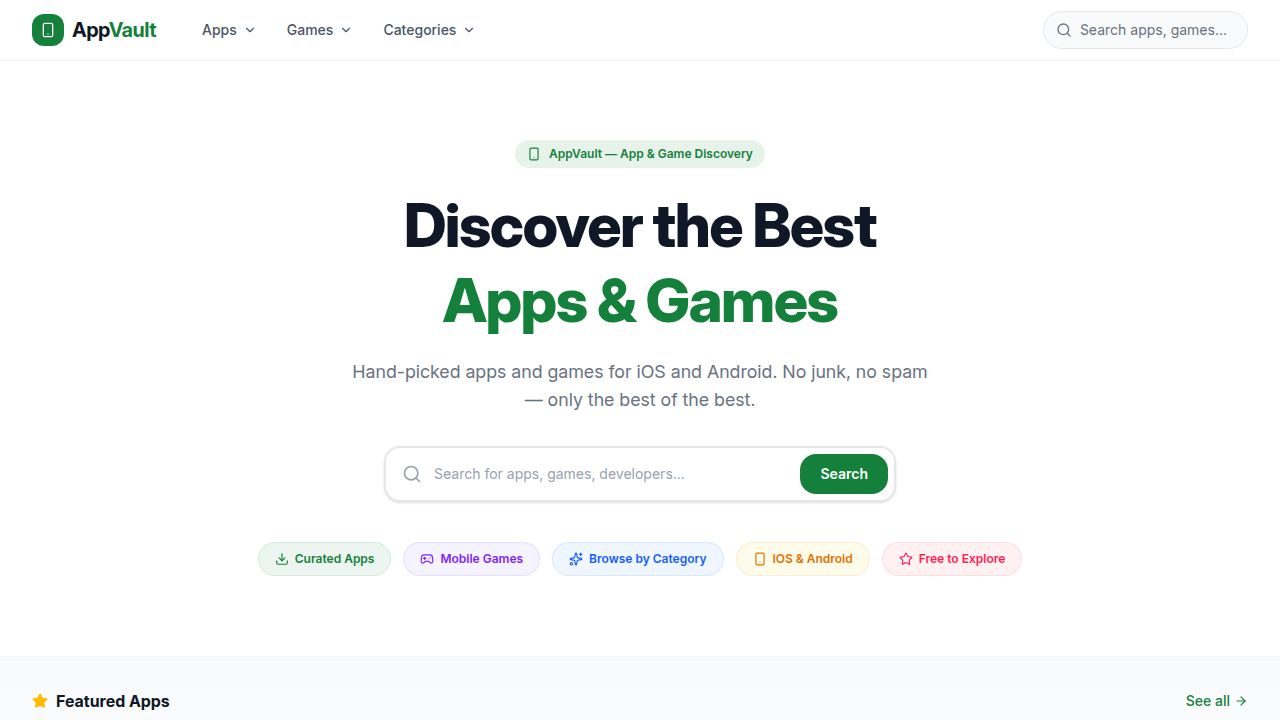
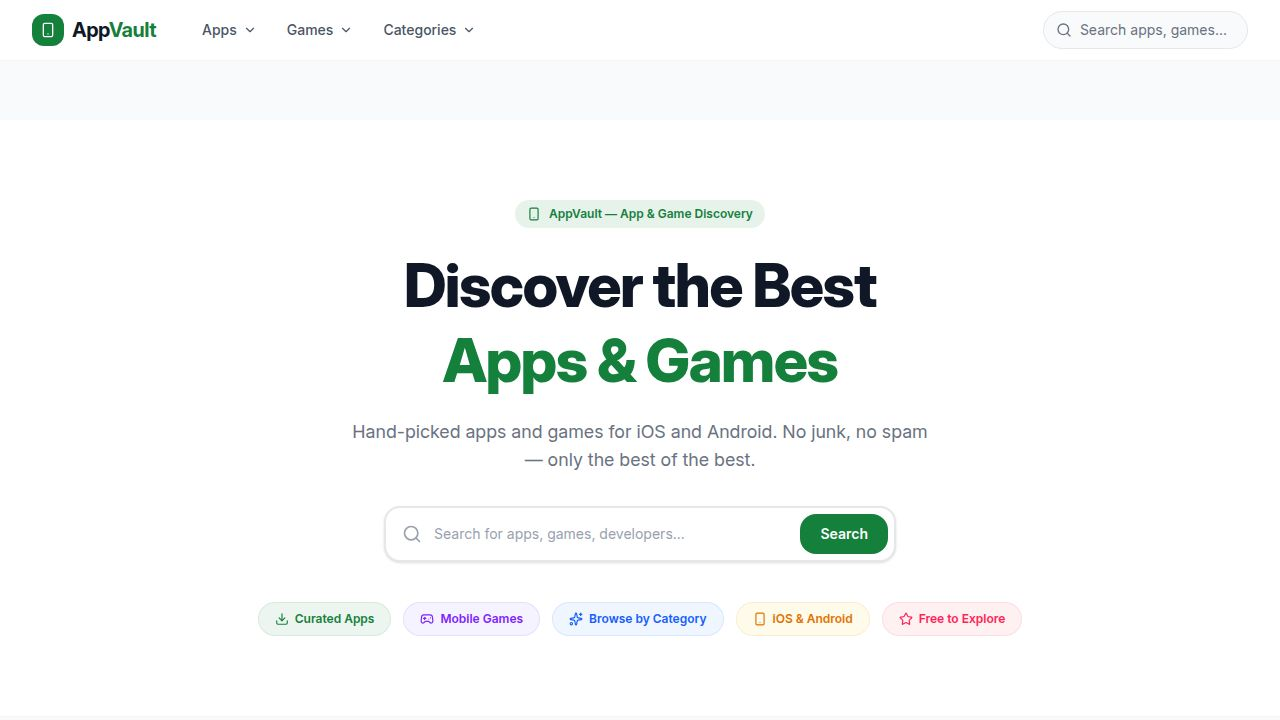
Add a universal back button and ensure all apps have store links
Create a reusable BackButton component, integrate it into the main layout for global use, and update all apps and games with valid store URLs.

Replit-Commit-Author: Agent
Replit-Commit-Session-Id: 5d847fb3-4399-40eb-8fd0-f5177b83f4bb
Replit-Commit-Checkpoint-Type: full_checkpoint
Replit-Commit-Event-Id: aa66eb4b-c818-4401-868c-f87e376d874f
Replit-Commit-Screenshot-Url: https://storage.googleapis.com/screenshot-production-us-central1/a645a3cc-1325-4004-b24e-4fd7294a2426/5d847fb3-4399-40eb-8fd0-f5177b83f4bb/j2EM5Wn
Replit-Helium-Checkpoint-Created: true

diff --git a/artifacts/appstore/src/pages/category-detail.tsx b/artifacts/appstore/src/pages/category-detail.tsx
@@ -1,8 +1,8 @@
-import { useParams, Link } from "wouter";
+import { useParams } from "wouter";
 import { useGetAppsByCategory, useListCategories, getGetAppsByCategoryQueryKey } from "@workspace/api-client-react";
 import { AppCard } from "@/components/app-card";
 import { Skeleton } from "@/components/ui/skeleton";
-import { ChevronLeft, Layers } from "lucide-react";
+import { Layers } from "lucide-react";
 import {
   Gamepad2, Music, Camera, Briefcase, GraduationCap, HeartPulse,
   ShoppingBag, Compass, MessageCircle, Map, Zap, DollarSign, Utensils,
@@ -25,8 +25,6 @@ export function CategoryDetail() {
   const category = categories?.find(c => c.slug === categorySlug);
   const Icon = category ? (iconMap[category.iconName] || Layers) : Layers;
   const isGameGenre = categorySlug.endsWith("-games");
-  const backHref = isGameGenre ? "/games" : "/categories";
-  const backLabel = isGameGenre ? "Mobile Gaming Hub" : "All Categories";
 
   const { data: apps, isLoading } = useGetAppsByCategory(categorySlug, undefined, {
     query: {
@@ -40,9 +38,6 @@ export function CategoryDetail() {
       {/* Category Header */}
       <div className="bg-white border-b border-gray-100">
         <div className="max-w-7xl mx-auto px-4 sm:px-6 lg:px-8 py-10">
-          <Link href={backHref} className="inline-flex items-center gap-1 text-sm text-gray-500 hover:text-gray-900 mb-6 transition-colors">
-            <ChevronLeft className="h-4 w-4" /> {backLabel}
-          </Link>
           <div className="flex items-start gap-5">
             {category ? (
               <div

diff --git a/artifacts/appstore/src/components/ui/back-button.tsx b/artifacts/appstore/src/components/ui/back-button.tsx
@@ -1,0 +1,47 @@
+import { ArrowLeft } from "lucide-react";
+import { useLocation } from "wouter";
+
+interface BackButtonProps {
+  fallback?: string;
+  label?: string;
+}
+
+export function BackButton({ fallback = "/", label = "Back" }: BackButtonProps) {
+  const [, navigate] = useLocation();
+
+  function handleBack() {
+    if (window.history.length > 1) {
+      window.history.back();
+    } else {
+      navigate(fallback);
+    }
+  }
+
+  return (
+    <button
+      type="button"
+      onClick={handleBack}
+      className="
+        group
+        inline-flex items-center gap-1.5
+        px-3.5 py-2
+        bg-white
+        text-gray-600
+        text-sm font-semibold
+        rounded-xl
+        border border-gray-200
+        shadow-sm
+        hover:bg-gray-50
+        hover:text-gray-900
+        hover:shadow-md
+        hover:border-gray-300
+        active:scale-[0.97]
+        transition-all duration-150
+        select-none
+      "
+    >
+      <ArrowLeft className="h-4 w-4 transition-transform duration-150 group-hover:-translate-x-0.5" />
+      {label}
+    </button>
+  );
+}

diff --git a/artifacts/appstore/src/pages/app-detail.tsx b/artifacts/appstore/src/pages/app-detail.tsx
@@ -4,7 +4,7 @@ import { useGetApp, useListApps, getGetAppQueryKey } from "@workspace/api-client
 import { Skeleton } from "@/components/ui/skeleton";
 import { AppCard } from "@/components/app-card";
 import {
-  Star, Download, Share2, ChevronLeft, Globe, Shield,
+  Star, Download, Share2, Globe, Shield,
   Smartphone, ChevronRight, CheckCircle2, Zap, Award, Link2
 } from "lucide-react";
 
@@ -137,14 +137,6 @@ export function AppDetail() {
       )}
 
       <div className="max-w-5xl mx-auto px-4 sm:px-6 lg:px-8 pt-6">
-        {/* Back */}
-        <Link
-          href={app.appType === "game" ? "/games" : "/apps"}
-          className="inline-flex items-center gap-1.5 text-sm font-medium text-gray-500 hover:text-gray-900 transition-colors mb-6"
-        >
-          <ChevronLeft className="h-4 w-4" />
-          Back to {app.appType === "game" ? "Games" : "Apps"}
-        </Link>
 
         {/* ── Hero Card ── */}
         <div className="bg-white rounded-3xl border border-gray-100 shadow-sm overflow-hidden mb-5">

diff --git a/artifacts/appstore/src/components/layout/main-layout.tsx b/artifacts/appstore/src/components/layout/main-layout.tsx
@@ -1,5 +1,7 @@
 import { Navbar } from "./navbar";
 import { Footer } from "./footer";
+import { BackButton } from "@/components/ui/back-button";
+import { useLocation } from "wouter";
 import { ReactNode } from "react";
 
 interface MainLayoutProps {
@@ -7,10 +9,23 @@ interface MainLayoutProps {
 }
 
 export function MainLayout({ children }: MainLayoutProps) {
+  const [location] = useLocation();
+  const showBack = location !== "/";
+
   return (
     <div className="flex min-h-screen flex-col bg-gray-50">
       <Navbar />
-      <main className="flex-1">
+
+      {/* Sticky back bar — shown on every page except home */}
+      {showBack && (
+        <div className="sticky top-[60px] z-40 bg-white/90 backdrop-blur-md border-b border-gray-100 shadow-[0_2px_12px_rgba(0,0,0,0.06)]">
+          <div className="max-w-7xl mx-auto px-4 sm:px-6 lg:px-8 py-2">
+            <BackButton />
+          </div>
+        </div>
+      )}
+
+      <main className="flex-1 pt-[60px]">
         {children}
       </main>
       <Footer />
